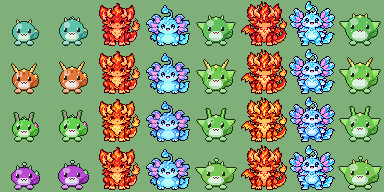
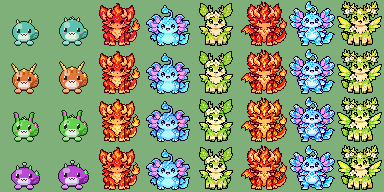
V1.15.0: 森土鳥金 4 系與 7 顆屬性蛋換成手繪造型
Claude-Session: https://claude.ai/code/session_01Asf9UbikJHEseEPnq7CYMU

diff --git a/index.html b/index.html
@@ -179,7 +179,7 @@ body.rm *{transition:none!important;animation:none!important}
    幻獸日記 Pixel Familiar — V1.3
    單一檔案：遊戲邏輯 + 程式化 16-bit 像素 sprite sheet 產生器
    ========================================================= */
-const VERSION='1.14.0';
+const VERSION='1.15.0';
 const SAVE_KEY='pixel-familiar-save',BACKUP_KEY='pixel-familiar-save-backup',LEGACY_KEY='pixel-familiar-v1',TIP_KEY='pixel-familiar-tip-closed';
 const W=128,H=112,CELL=48,PET_X=40,PET_Y=56;           // 場景邏輯解析度與角色格位置
 const $=id=>document.getElementById(id);
@@ -424,19 +424,36 @@ function eggColors(key){if(!key.startsWith('egg|'))return{shell:'#fff1d0',shellD
  return{shell:hsl(eh[0],Math.min(60,eh[1]),90),shellD:hsl(eh[0],Math.min(50,eh[1]),74),spot:E.b,spotD:E.d,hole:E.b}}
 function sheet(key){return SHEETS[key]||buildSheet(key)}
 /* ---------------- 手繪造型（tools/import_art.py 產生的 48×48 圖）：有圖的屬性用圖，其餘用程式繪製 ---------------- */
-const ART_ELS=['flame','tide'];                    // 已經有手繪圖的屬性
+const ART_ELS=['flame','tide','forest','earth','bird','metal'];   // 已經有手繪圖的屬性（電系等新圖）
+const EGG_ART_ELS=['flame','tide','forest','earth','bird','elec','metal'];
+const ART_EGG={};
 const ART={};                               // ART[屬性][階段1-4]={open,closed}
 let artPending=0;
 function loadArt(){for(const el of ART_ELS){ART[el]={};for(let st=1;st<=4;st++){ART[el][st]={};for(const eye of['open','closed']){
  const im=new Image();artPending++;
  im.onload=()=>{ART[el][st][eye]=im;if(--artPending===0)for(const k in SHEETS)if(SHEETS[k].tmp)delete SHEETS[k]};
- im.onerror=()=>{artPending--};im.src=`sprites/${el}_${st}_${eye}.png`}}}}
+ im.onerror=()=>{artPending--};im.src=`sprites/${el}_${st}_${eye}.png`}}}
+ for(const el of EGG_ART_ELS){const im=new Image();artPending++;
+  im.onload=()=>{ART_EGG[el]=im;if(--artPending===0)for(const k in SHEETS)if(SHEETS[k].tmp)delete SHEETS[k]};
+  im.onerror=()=>{artPending--};im.src=`sprites/egg_${el}.png`}}
+/* 手繪蛋：左右搖晃（以底部為軸斜切）＋逐步出現裂痕 */
+function drawEggArtFrame(ctx,im,name,ox){
+ const c=+name[3],lean=name[4],k=lean==='L'?-.08:lean==='R'?.08:0;
+ const tmp=document.createElement('canvas');tmp.width=CELL;tmp.height=CELL;const t=tmp.getContext('2d');t.imageSmoothingEnabled=false;t.drawImage(im,0,0);
+ if(c>=1){const d=t.getImageData(0,0,CELL,CELL),a=d.data,dy=-4;
+  const pts=[[17,28],[18,27],[19,28],[20,29],[21,28],[22,27],[23,28],[24,29]];
+  if(c>=2)pts.push([25,28],[26,27],[27,28],[28,29],[29,28],[30,27],[31,28],[24,27],[24,26],[25,25]);
+  if(c>=3)pts.push([20,26],[21,25],[22,24],[27,26],[28,25],[23,27],[24,28],[25,27],[26,28]);
+  for(const[x,y]of pts){const i=((y+dy)*CELL+x)*4;if(a[i+3]){a[i]=42;a[i+1]=26;a[i+2]=26}}
+  t.putImageData(d,0,0)}
+ // 逐列位移做出傾斜（像素不模糊）
+ for(let y=0;y<CELL;y++){const off=Math.round((44-y)*k);ctx.drawImage(tmp,0,y,CELL,1,ox+off,y,CELL,1)}}
 function artFor(F){if(!F||!F.route||!ART[F.route])return null;const a=ART[F.route][parseCode(F.code).lv+1];return a&&a.open&&a.closed?a:null}
 const ART_VAR={};
 /* 個體差異：同一個造型，依基因微調色相；星級（傳說）多幾顆閃光 */
 function artVariant(im,G,key){const ck=key+'|'+im.src;if(ART_VAR[ck])return ART_VAR[ck];
  const c=document.createElement('canvas');c.width=CELL;c.height=CELL;const x=c.getContext('2d');x.drawImage(im,0,0);
- const shift=G?((G.hue*7)%21)-10:0,d=x.getImageData(0,0,CELL,CELL),a=d.data;
+ const shift=G&&!G.keep?((G.hue*7)%21)-10:0,d=x.getImageData(0,0,CELL,CELL),a=d.data;
  if(shift)for(let i=0;i<a.length;i+=4){if(!a[i+3])continue;let r=a[i]/255,g=a[i+1]/255,b=a[i+2]/255;const mx=Math.max(r,g,b),mn=Math.min(r,g,b),l=(mx+mn)/2;if(mx===mn)continue;
   const dd=mx-mn,s=l>.5?dd/(2-mx-mn):dd/(mx+mn);let h=mx===r?(g-b)/dd+(g<b?6:0):mx===g?(b-r)/dd+2:(r-g)/dd+4;h=h*60+shift;
   const[R,Gg,B]=rgb(hsl(h,s*100,l*100));a[i]=R;a[i+1]=Gg;a[i+2]=B}
@@ -454,8 +471,10 @@ function drawArtFrame(ctx,A,F,fr,ox,key){
 function buildSheet(key){
  const isEgg=key.startsWith('egg'),EC=isEgg?eggColors(key):null,F=isEgg?null:formOf(key);
  const names=isEgg?EGG_FRAMES:FRAME_NAMES,cv=document.createElement('canvas');cv.width=CELL*names.length;cv.height=CELL;
- const ctx=cv.getContext('2d'),A=isEgg?null:artFor(F),tmp=!isEgg&&!A&&F&&F.route&&ART_ELS.includes(F.route)&&artPending>0;
- if(A){ctx.imageSmoothingEnabled=false;names.forEach((n,i)=>drawArtFrame(ctx,A,F,FRAMES[n],i*CELL,key))}
+ const ctx=cv.getContext('2d'),A=isEgg?null:artFor(F),EG=isEgg&&key.startsWith('egg|')?genomeFromId(key.slice(4)):null,EI=EG&&EG.el?ART_EGG[EG.el]:null;
+ const tmp=artPending>0&&(isEgg?!!(EG&&EG.el&&!EI):!A&&F&&F.route&&ART_ELS.includes(F.route));
+ if(EI){ctx.imageSmoothingEnabled=false;const v=artVariant(EI,EG.rarity===3?{keep:1,rarity:3}:null,key);names.forEach((n,i)=>drawEggArtFrame(ctx,v,n,i*CELL))}
+ else if(A){ctx.imageSmoothingEnabled=false;names.forEach((n,i)=>drawArtFrame(ctx,A,F,FRAMES[n],i*CELL,key))}
  else{const img=ctx.createImageData(cv.width,CELL);
  names.forEach((n,i)=>blit(isEgg?drawEgg(n,EC):drawCreature(F,FRAMES[n]),img,i*CELL));ctx.putImageData(img,0,0)}
  const sil=document.createElement('canvas');sil.width=cv.width;sil.height=CELL;const sc=sil.getContext('2d');

diff --git a/sw.js b/sw.js
@@ -1,9 +1,10 @@
 // 幻獸日記 Service Worker — 離線快取
 // 更新遊戲時，請把 VERSION 改成新版本號，iPhone 才會換成新檔案。
-const VERSION = 'pf-1.14.0';
+const VERSION = 'pf-1.15.0';
 const CORE = ['./', './index.html', './game-core.js'];
 const EXTRA = ['./manifest.webmanifest', './icon-180.png', './icon-192.png', './icon-512.png',
-  ...['flame','tide'].flatMap(el => [1,2,3,4].flatMap(n => ['open','closed'].map(e => `./sprites/${el}_${n}_${e}.png`)))];
+  ...['flame','tide','forest','earth','bird','metal'].flatMap(el => [1,2,3,4].flatMap(n => ['open','closed'].map(e => `./sprites/${el}_${n}_${e}.png`))),
+  ...['flame','tide','forest','earth','bird','elec','metal'].map(el => `./sprites/egg_${el}.png`)];
 
 self.addEventListener('install', e => {
   e.waitUntil((async () => {

diff --git a/tools/slice_sheet.py b/tools/slice_sheet.py
@@ -1,0 +1,75 @@
+#!/usr/bin/env python3
+"""把一張「設計總表」切成單張圖，交給 import_art.py。
+
+怪獸總表：2 列 × 4 欄（上排睜眼、下排閉眼；左到右＝幼年、少年、成年、高階）
+  python3 tools/slice_sheet.py creature forest art/src/sheets/forest.png
+蛋總表：上排 水 森 土 鳥、下排 電 金 火（每顆蛋下方的文字標籤會被切掉）
+  python3 tools/slice_sheet.py eggs art/src/sheets/eggs.png
+"""
+import sys, os
+from PIL import Image
+
+ROOT = os.path.dirname(os.path.dirname(os.path.abspath(__file__)))
+STAGES = ['1_juvenile', '2_teen', '3_adult', '4_ascended']
+
+
+def creature(el, path):
+    """用「連在一起的色塊」找出每一隻，而不是硬切成等寬格子（翅膀常常超過格線）。"""
+    import numpy as np
+    from scipy import ndimage
+    sys.path.insert(0, os.path.dirname(os.path.abspath(__file__)))
+    from import_art import mask_of
+    im = Image.open(path).convert('RGB')
+    a = np.asarray(im)
+    H, W = a.shape[:2]
+    fg = mask_of(a)
+    lab, n = ndimage.label(fg)
+    objs = ndimage.find_objects(lab)
+    areas = ndimage.sum(fg, lab, range(1, n + 1))
+    out = os.path.join(ROOT, 'art', 'src', el)
+    os.makedirs(out, exist_ok=True)
+    for row, eye in enumerate(['open', 'closed']):
+        comps = [i for i, sl in enumerate(objs) if row * H / 2 <= (sl[0].start + sl[0].stop) / 2 < (row + 1) * H / 2]
+        main = sorted(sorted(comps, key=lambda i: -areas[i])[:4], key=lambda i: objs[i][1].start)
+        groups = {m: [m] for m in main}
+        for i in comps:
+            if i in main:
+                continue
+            cx = (objs[i][1].start + objs[i][1].stop) / 2
+            near = min(main, key=lambda m: abs((objs[m][1].start + objs[m][1].stop) / 2 - cx))
+            groups[near].append(i)
+        for st, m in zip(STAGES, main):
+            ids = [g + 1 for g in groups[m]]
+            sel = np.isin(lab, ids)
+            ys, xs = np.where(sel)
+            pad = 12
+            y0, y1, x0, x1 = max(0, ys.min() - pad), ys.max() + pad, max(0, xs.min() - pad), xs.max() + pad
+            crop = a[y0:y1, x0:x1].copy()
+            crop[~sel[y0:y1, x0:x1]] = (0, 255, 0)
+            Image.fromarray(crop).save(os.path.join(out, f'{el}_{st}_{eye}.png'))
+    print('sliced', el)
+
+
+# 蛋總表的格位（以 1659×948 的原圖為準，依比例換算），只取蛋本體，不含下方標籤
+EGG_BOX = {
+    'tide': (0.00, 0.00, 0.25, 0.39), 'forest': (0.25, 0.00, 0.50, 0.39),
+    'earth': (0.50, 0.00, 0.75, 0.39), 'bird': (0.75, 0.00, 1.00, 0.39),
+    'elec': (0.05, 0.50, 0.35, 0.86), 'metal': (0.37, 0.50, 0.63, 0.86), 'flame': (0.65, 0.50, 0.97, 0.86),
+}
+
+
+def eggs(path):
+    im = Image.open(path).convert('RGB')
+    W, H = im.size
+    out = os.path.join(ROOT, 'art', 'src', 'eggs')
+    os.makedirs(out, exist_ok=True)
+    for el, (a, b, c, d) in EGG_BOX.items():
+        im.crop((round(a * W), round(b * H), round(c * W), round(d * H))).save(os.path.join(out, f'egg_{el}.png'))
+    print('sliced eggs')
+
+
+if __name__ == '__main__':
+    if sys.argv[1] == 'creature':
+        creature(sys.argv[2], sys.argv[3])
+    else:
+        eggs(sys.argv[2])

diff --git a/tools/import_art.py b/tools/import_art.py
@@ -156,6 +156,35 @@ def process(el):
     pv.save(os.path.join(ROOT, 'art', f'preview-{el}.png'))
 
 
+EGG_FIT = (36, 38)
+
+
+def process_eggs():
+    """蛋：art/src/eggs/egg_<屬性>.png → sprites/egg_<屬性>.png（腳底對齊 y=46）"""
+    src = os.path.join(ROOT, 'art', 'src', 'eggs')
+    outdir = os.path.join(ROOT, 'sprites')
+    previews = []
+    for f in sorted(os.listdir(src)):
+        if not f.endswith('.png'):
+            continue
+        a, m = load(os.path.join(src, f))
+        box = bbox(m)
+        bw, bh = box[2] - box[0], box[3] - box[1]
+        k = min(EGG_FIT[0] / bw, EGG_FIT[1] / bh)
+        tw, th = max(1, round(bw * k)), max(1, round(bh * k))
+        im = downsample(a, m, box, tw, th, (CELL - tw) // 2, GROUND - th)
+        (im,), pal = quantize([im], 20)
+        im = add_outline(im, min(pal.tolist(), key=lambda c: lum(c)))
+        Image.fromarray(im, 'RGBA').save(os.path.join(outdir, f), optimize=True)
+        previews.append(im)
+        print(f, f'{tw}x{th}')
+    sc = 6
+    pv = Image.new('RGBA', (CELL * sc * len(previews), CELL * sc), (40, 52, 70, 255))
+    for i, im in enumerate(previews):
+        pv.alpha_composite(Image.fromarray(im, 'RGBA').resize((CELL * sc, CELL * sc), Image.NEAREST), (i * CELL * sc, 0))
+    pv.save(os.path.join(ROOT, 'art', 'preview-eggs.png'))
+
+
 if __name__ == '__main__':
     for el in sys.argv[1:] or ['flame']:
-        process(el)
+        process_eggs() if el == 'eggs' else process(el)

diff --git a/docs/CHANGELOG.md b/docs/CHANGELOG.md
@@ -1,5 +1,11 @@
 # 更新紀錄 Changelog
 
+## V1.15.0（2026-11-16）— 森、土、鳥、金 4 系與 7 顆屬性蛋換成手繪造型
+- 森（葉耳小鹿）、土（岩甲獸）、鳥（藍色貓頭鷹）、金（鋼鎧穿山甲）4 系的 4 個階段改用 GPT 設計的造型。
+- 7 種屬性蛋改用手繪蛋（附草窩），保留左右搖晃與點擊後的裂痕；傳說蛋多幾顆閃光。
+- 新增 `tools/slice_sheet.py`：一整張設計總表（2 列 × 4 欄）會自動找出每一隻並切開，翅膀超過格線也不會被切到；蛋總表會切掉下方文字標籤。
+- 電系的怪獸圖還沒交，暫時維持程式繪製（電系蛋已是新圖）。
+
 ## V1.14.0（2026-11-16）— 水系換成手繪造型
 - 水系 4 個階段改用 GPT 設計的六角恐龍造型（`sprites/tide_*`，原圖在 `art/src/tide/`）。
 - 轉圖工具更新：白底的圖也能自動去背；飄在旁邊的小閃光、水花會自動去掉；睜眼、閉眼各自縮放再以腳底對齊，兩張大小不同也不會跳動。
